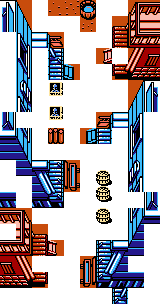
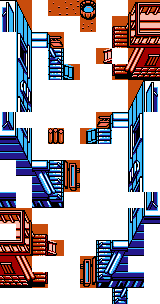
Render map in game

Changed region(s): [[0.5938, 0.5329, 0.7188, 0.7401], [0.2812, 0.2664, 0.4062, 0.4145]]

diff --git a/Assets/Scripts/Map.cs b/Assets/Scripts/Map.cs
@@ -7,20 +7,65 @@ using System.Collections.ObjectModel;
 
 public class Map
 {
-    private Sprite[] sprites;
+    private Dictionary<int, Sprite> spriteMap;
 
     private int width;
     private int height;
 
-    private int[,] tileIds;
+    private int tileWidth;
+    private int tileHeight;
+
+    private float tileRealWidth;
+    private float tileRealHeight;
+
+    private SpriteRenderer[,] cellRenderers;
 
     private string basePath = string.Empty;
+
+    public int GetNumCellX()
+    {
+        return width;
+    }
+
+    public int GetNumCellY()
+    {
+        return height;
+    }
+
+    public int GetWidth()
+    {
+        return width * tileWidth;
+    }
+
+    public int GetHeight()
+    {
+        return height * tileHeight;
+    }
+
+    public float GetRealWidth()
+    {
+        return width * tileRealWidth;
+    }
+
+    public float GetRealHeight()
+    {
+        return height * tileRealHeight;
+    }
 
     private Stream GetStream(string name)
     {
         string path = Utils.PathSimplify(basePath + "/" + name);
         TextAsset textAsset = Resources.Load<TextAsset>(path);
         return new MemoryStream(textAsset.bytes);
+    }
+
+    private SpriteRenderer CreateRenderer(float x, float y)
+    {
+        GameObject obj = new GameObject();
+        obj.transform.localPosition = new Vector3(x, y, 0.0f);
+        SpriteRenderer renderer = obj.AddComponent<SpriteRenderer>();
+
+        return renderer;
     }
 
     public void Load(int levelId)
@@ -31,7 +76,35 @@ public class Map
         width = map.Width;
         height = map.Height;
 
-        tileIds = new int[height, width];
+        cellRenderers = new SpriteRenderer[height, width];
+
+        TmxTileset tileset = map.Tilesets[0];
+
+        int tileSetWidth = tileset.Columns.GetValueOrDefault();
+        int tileSetHeight = tileset.TileCount.GetValueOrDefault() / tileSetWidth;
+
+        spriteMap = new Dictionary<int, Sprite>();
+
+        tileWidth = tileset.TileWidth;
+        tileHeight = tileset.TileHeight;
+
+        int startId = tileset.FirstGid;
+
+        Sprite[] spriteList = Resources.LoadAll<Sprite>(Utils.PathSimplify(basePath + "/" + tileset.Name));
+        float pixelsPerUnit = spriteList[0].pixelsPerUnit;
+
+        tileRealWidth = tileWidth / pixelsPerUnit;
+        tileRealHeight = tileHeight / pixelsPerUnit;
+
+        foreach (Sprite sprite in spriteList)
+        {
+            Vector2 center = sprite.rect.center;
+            int column = Mathf.FloorToInt(center.x / tileWidth);
+            int row = tileSetHeight - Mathf.FloorToInt(center.y / tileHeight) - 1;
+            int id = row * tileSetWidth + column;
+
+            spriteMap.Add(id, sprite);
+        }
 
         TmxLayer backgroundLayer = map.Layers[0];
         Collection<TmxLayerTile> tiles = backgroundLayer.Tiles;
@@ -39,13 +112,21 @@ public class Map
 
         for (int i = 0; i < numTiles; ++i)
         {
-            int id = tiles[i].Gid;
+            int id = tiles[i].Gid - startId;
 
-            int row = i / width;
+            int row = height - (i / width) - 1;
             int col = i % width;
-            tileIds[row, col] = id;
 
-            Debug.Log(id);
+            SpriteRenderer cellRenderer = null;
+
+            Sprite sprite;
+            if (spriteMap.TryGetValue(id, out sprite))
+            {
+                cellRenderer = CreateRenderer((col + 0.5f) * tileRealWidth, (row + 0.5f) * tileRealHeight);
+                cellRenderer.sprite = sprite;
+            }
+
+            cellRenderers[row, col] = cellRenderer;
         }
     }
 }

diff --git a/Assets/Scripts/Game.cs b/Assets/Scripts/Game.cs
@@ -4,16 +4,45 @@ using UnityEngine;
 
 public class Game : MonoBehaviour
 {
+    public Camera gameCamera;
+
+    private float minCamY;
+    private float maxCamY;
+    private float camY;
+        
     private Map map;
 
 	void Start ()
     {
         map = new Map();
         map.Load(1);
-	}
+
+        float screenRatio = (float)Screen.width / Screen.height;
+
+        float viewWidth = map.GetRealWidth();
+        float viewHeight = viewWidth / screenRatio;
+
+        gameCamera.orthographicSize = minCamY = viewHeight / 2.0f;
+        maxCamY = map.GetRealHeight() - minCamY;
+
+        Vector3 camPos = gameCamera.transform.localPosition;
+        camPos.x = viewWidth / 2.0f;
+        camPos.y = camY = minCamY;
+        gameCamera.transform.localPosition = camPos;
+    }
+
+    private void MoveCamera(float dist)
+    {
+        camY = Mathf.Clamp(camY + dist, minCamY, maxCamY);
+        Vector3 camPos = gameCamera.transform.localPosition;
+        camPos.y = camY;
+        gameCamera.transform.localPosition = camPos;
+    }
 	
 	void Update ()
     {
-		
+        float dt = Time.deltaTime;
+        float move = Input.GetAxis("Vertical") * Constants.MOVE_SPEED * dt;
+        MoveCamera(move);
 	}
 }

diff --git a/Assets/Scripts/Constants.cs b/Assets/Scripts/Constants.cs
@@ -1,0 +1,8 @@
+using System.Collections;
+using System.Collections.Generic;
+using UnityEngine;
+
+public static class Constants
+{
+    public static float MOVE_SPEED = 5.0f;
+}
